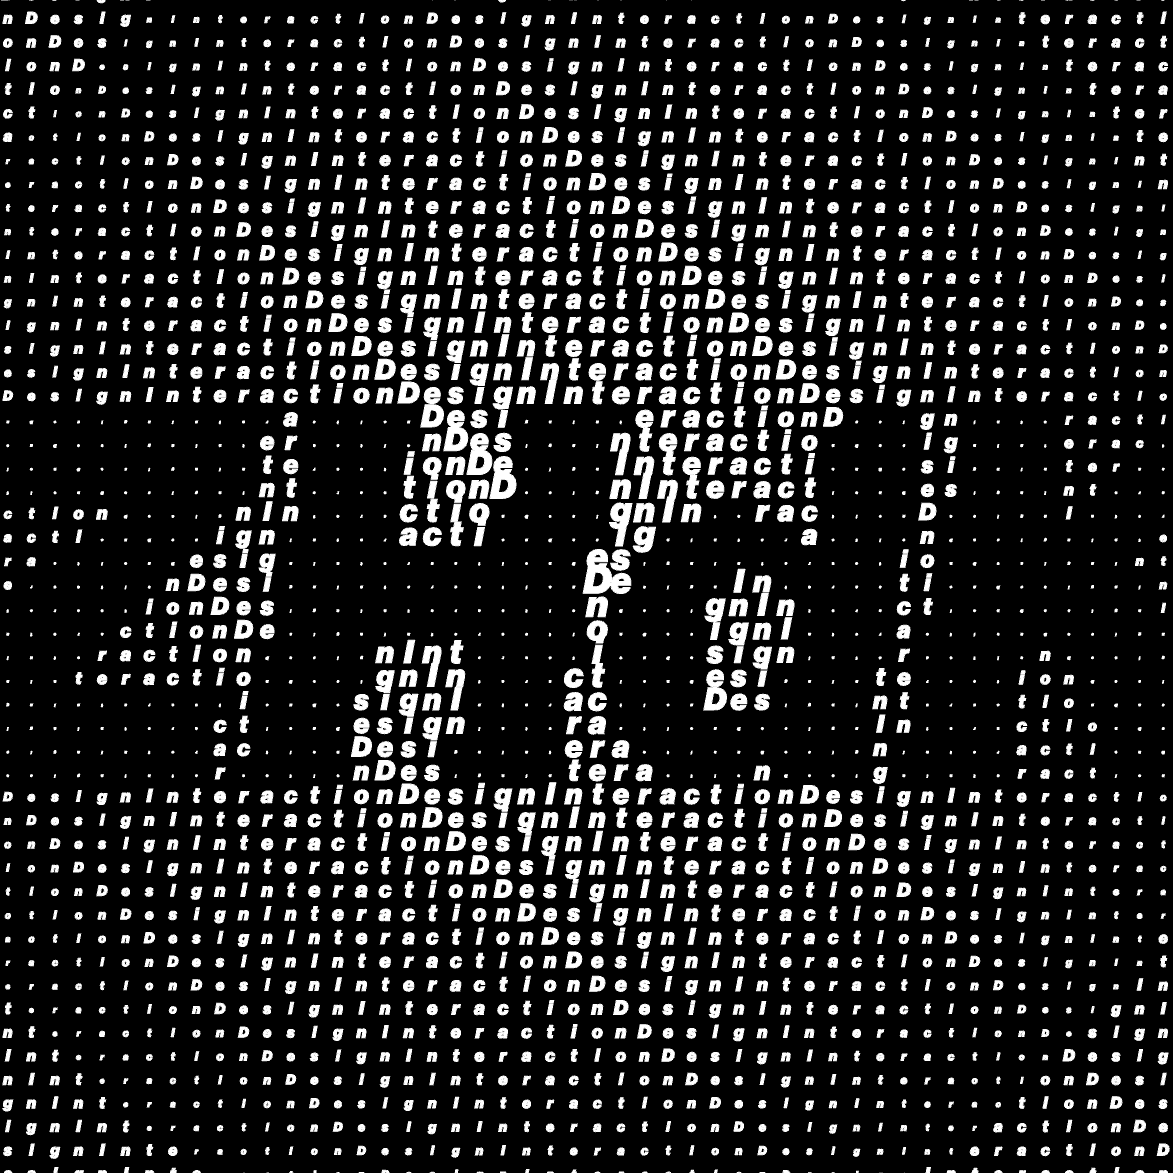
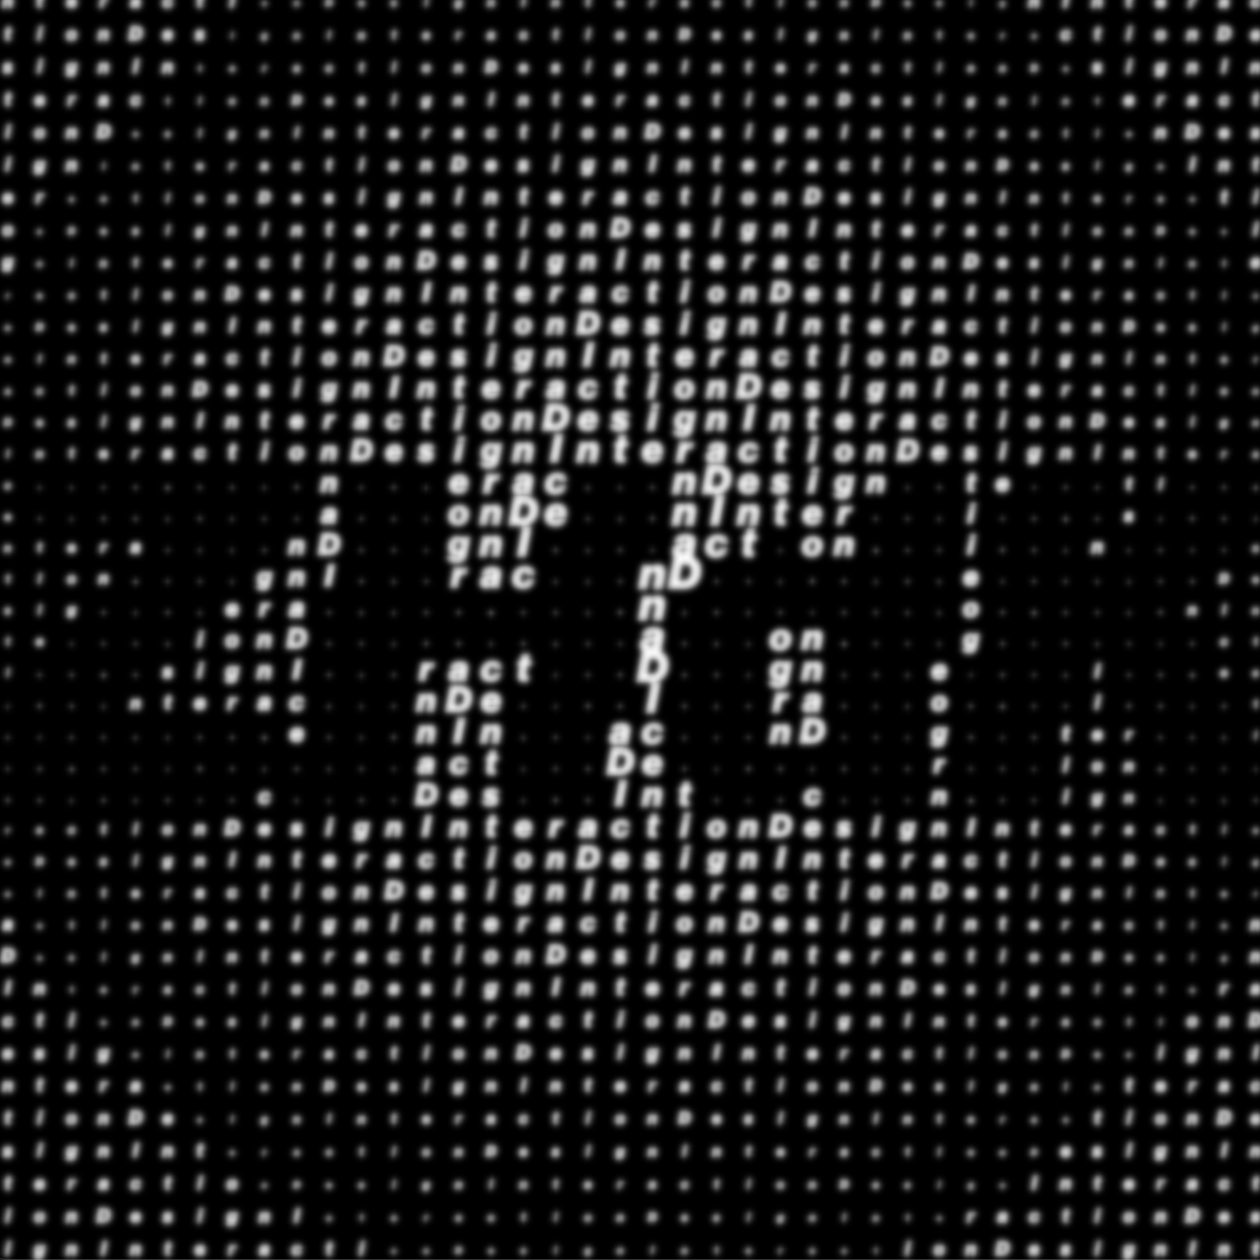
updated thumbnail

diff --git a/projects/01MainAssignments/project2/sketch.js b/projects/01MainAssignments/project2/sketch.js
@@ -22,10 +22,14 @@ function setup() {
   textAlign(CENTER, CENTER);
   textFont(font);
 
+  let textSizeFinal = windowWidth>1000? 500: windowWidth/3;
+  // console.log(textSizeFinal)
+
   bigWordImg = createGraphics(windowWidth, windowHeight);
   bigWordImg.textFont(font);
   bigWordImg.pixelDensity(1)
-  bigWordImg.textSize(windowWidth/3);
+  // bigWordImg.textSize(windowWidth/3);
+  bigWordImg.textSize(textSizeFinal);
   // bigWordImg.textSize(500);
   bigWordImg.textAlign(CENTER, CENTER);
   bigWordImg.background(0);
@@ -50,6 +54,7 @@ function draw() {
 
   mouseRadius = lerp(mouseRadius, targetRadius, 0.1);
   blurAmount = lerp(blurAmount, targetBlurAmount, 0.1);
+
 
 
       for (let y = gridSpacing / 2; y < height; y += gridSpacing) {
@@ -88,7 +93,7 @@ function draw() {
             //inside radius
             if (distance < mouseRadius) {
                 if (r < 128 && g < 128 && b < 128) {
-                  size += map(distance, 0, mouseRadius, 12, 4)
+                  size += map(distance, 0, mouseRadius, 12, 2)
                 } else {
                   size -= 1
                 }
@@ -106,9 +111,10 @@ function draw() {
         }
       }
 
-    if (blurAmount > 0) {
-      filter(BLUR, blurAmount);
-    }
+      if (blurAmount > 0) {
+        filter(BLUR, blurAmount);
+      }
+
 }
 
 function mousePressed() { 
